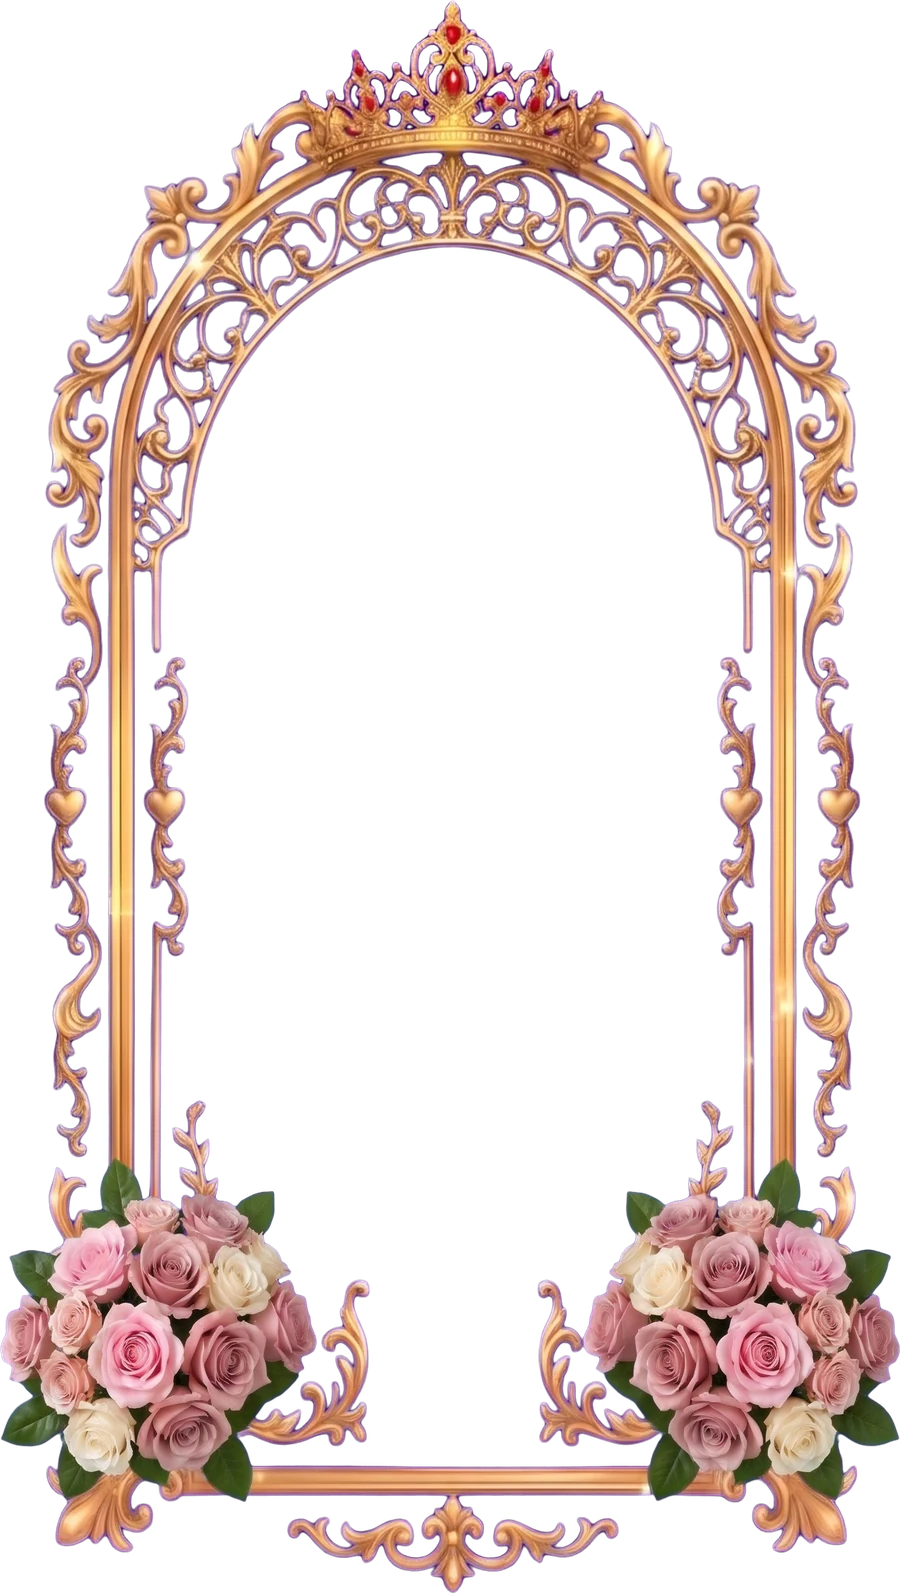
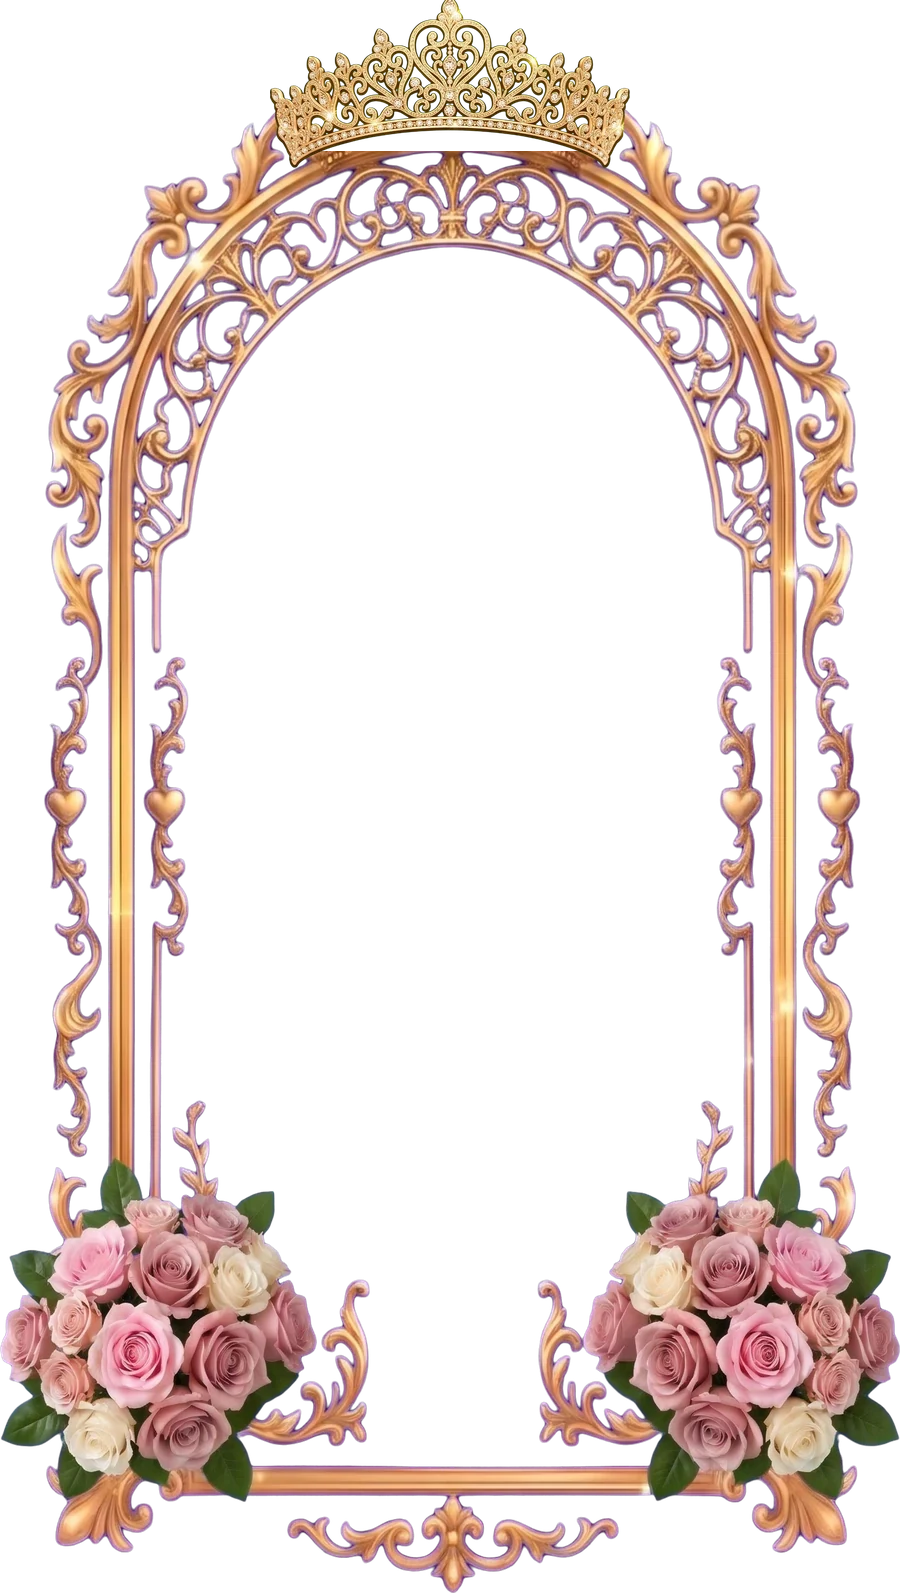
XV Melissa: unión natural entre la portada y las flores, marco con la misma tiara de la portada

Changed region(s): [[0.28, 0.0, 0.7156, 0.123]]

diff --git a/borradores/xv-melissa-v1-838367/index.html b/borradores/xv-melissa-v1-838367/index.html
@@ -634,10 +634,13 @@ body { background: #f6dde7; }
 #despedida .te-espero { position: relative; z-index: 5; width: 56cqw; }
 
 /* ---------- Portada (imagen 9:16 + letras en código como Niralys) ---------- */
-#portada { aspect-ratio: 9 / 16; height: auto; min-height: 0; max-height: none; background: #f6dde7; }
+#portada { aspect-ratio: 9 / 16; height: auto; min-height: 0; max-height: none; background: transparent; }
 #portada::after { display: none !important; }
 #portada .portada-img { position: absolute; inset: 0; top: 0; width: 100%; height: 100%; object-fit: cover; object-position: 50% 50%;
-  -webkit-mask-image: linear-gradient(#000 92%, transparent 100%); mask-image: linear-gradient(#000 92%, transparent 100%); transform: none; animation: none !important; }
+  -webkit-mask-image: linear-gradient(#000 80%, rgba(0,0,0,.6) 90%, transparent 100%); mask-image: linear-gradient(#000 80%, rgba(0,0,0,.6) 90%, transparent 100%); transform: none; animation: none !important; }
+/* unión natural portada → flores de abajo: la guirnalda sube y se mezcla con las rosas de la portada */
+#mensaje { position: relative; z-index: 2; margin-top: -18cqw; }
+#mensaje .guirnalda { top: -4cqw; -webkit-mask-image: linear-gradient(transparent 0, rgba(0,0,0,.55) 18%, #000 38%); mask-image: linear-gradient(transparent 0, rgba(0,0,0,.55) 18%, #000 38%); }
 #portada .velo, #portada .encabezado, #portada .corona { display: none !important; }
 #portada .destellos, #portada .mariposa { z-index: 6; }
 #portada .baja { z-index: 7; bottom: 2.5cqw; color: #fff6ec; text-shadow: 0 1px 5px rgba(80, 20, 45, .85); }

diff --git a/borradores/xv-melissa-v2-004407/index.html b/borradores/xv-melissa-v2-004407/index.html
@@ -634,10 +634,13 @@ body { background: #f6dde7; }
 #despedida .te-espero { position: relative; z-index: 5; width: 56cqw; }
 
 /* ---------- Portada (imagen 9:16 + letras en código como Niralys) ---------- */
-#portada { aspect-ratio: 9 / 16; height: auto; min-height: 0; max-height: none; background: #f6dde7; }
+#portada { aspect-ratio: 9 / 16; height: auto; min-height: 0; max-height: none; background: transparent; }
 #portada::after { display: none !important; }
 #portada .portada-img { position: absolute; inset: 0; top: 0; width: 100%; height: 100%; object-fit: cover; object-position: 50% 50%;
-  -webkit-mask-image: linear-gradient(#000 92%, transparent 100%); mask-image: linear-gradient(#000 92%, transparent 100%); transform: none; animation: none !important; }
+  -webkit-mask-image: linear-gradient(#000 80%, rgba(0,0,0,.6) 90%, transparent 100%); mask-image: linear-gradient(#000 80%, rgba(0,0,0,.6) 90%, transparent 100%); transform: none; animation: none !important; }
+/* unión natural portada → flores de abajo: la guirnalda sube y se mezcla con las rosas de la portada */
+#mensaje { position: relative; z-index: 2; margin-top: -18cqw; }
+#mensaje .guirnalda { top: -4cqw; -webkit-mask-image: linear-gradient(transparent 0, rgba(0,0,0,.55) 18%, #000 38%); mask-image: linear-gradient(transparent 0, rgba(0,0,0,.55) 18%, #000 38%); }
 #portada .velo, #portada .encabezado, #portada .corona { display: none !important; }
 #portada .destellos, #portada .mariposa { z-index: 6; }
 #portada .baja { z-index: 7; bottom: 2.5cqw; color: #fff6ec; text-shadow: 0 1px 5px rgba(80, 20, 45, .85); }

diff --git a/borradores/xv-melissa-v3-4cd459/index.html b/borradores/xv-melissa-v3-4cd459/index.html
@@ -634,10 +634,13 @@ body { background: #f6dde7; }
 #despedida .te-espero { position: relative; z-index: 5; width: 56cqw; }
 
 /* ---------- Portada (imagen 9:16 + letras en código como Niralys) ---------- */
-#portada { aspect-ratio: 9 / 16; height: auto; min-height: 0; max-height: none; background: #f6dde7; }
+#portada { aspect-ratio: 9 / 16; height: auto; min-height: 0; max-height: none; background: transparent; }
 #portada::after { display: none !important; }
 #portada .portada-img { position: absolute; inset: 0; top: 0; width: 100%; height: 100%; object-fit: cover; object-position: 50% 50%;
-  -webkit-mask-image: linear-gradient(#000 92%, transparent 100%); mask-image: linear-gradient(#000 92%, transparent 100%); transform: none; animation: none !important; }
+  -webkit-mask-image: linear-gradient(#000 80%, rgba(0,0,0,.6) 90%, transparent 100%); mask-image: linear-gradient(#000 80%, rgba(0,0,0,.6) 90%, transparent 100%); transform: none; animation: none !important; }
+/* unión natural portada → flores de abajo: la guirnalda sube y se mezcla con las rosas de la portada */
+#mensaje { position: relative; z-index: 2; margin-top: -18cqw; }
+#mensaje .guirnalda { top: -4cqw; -webkit-mask-image: linear-gradient(transparent 0, rgba(0,0,0,.55) 18%, #000 38%); mask-image: linear-gradient(transparent 0, rgba(0,0,0,.55) 18%, #000 38%); }
 #portada .velo, #portada .encabezado, #portada .corona { display: none !important; }
 #portada .destellos, #portada .mariposa { z-index: 6; }
 #portada .baja { z-index: 7; bottom: 2.5cqw; color: #fff6ec; text-shadow: 0 1px 5px rgba(80, 20, 45, .85); }
